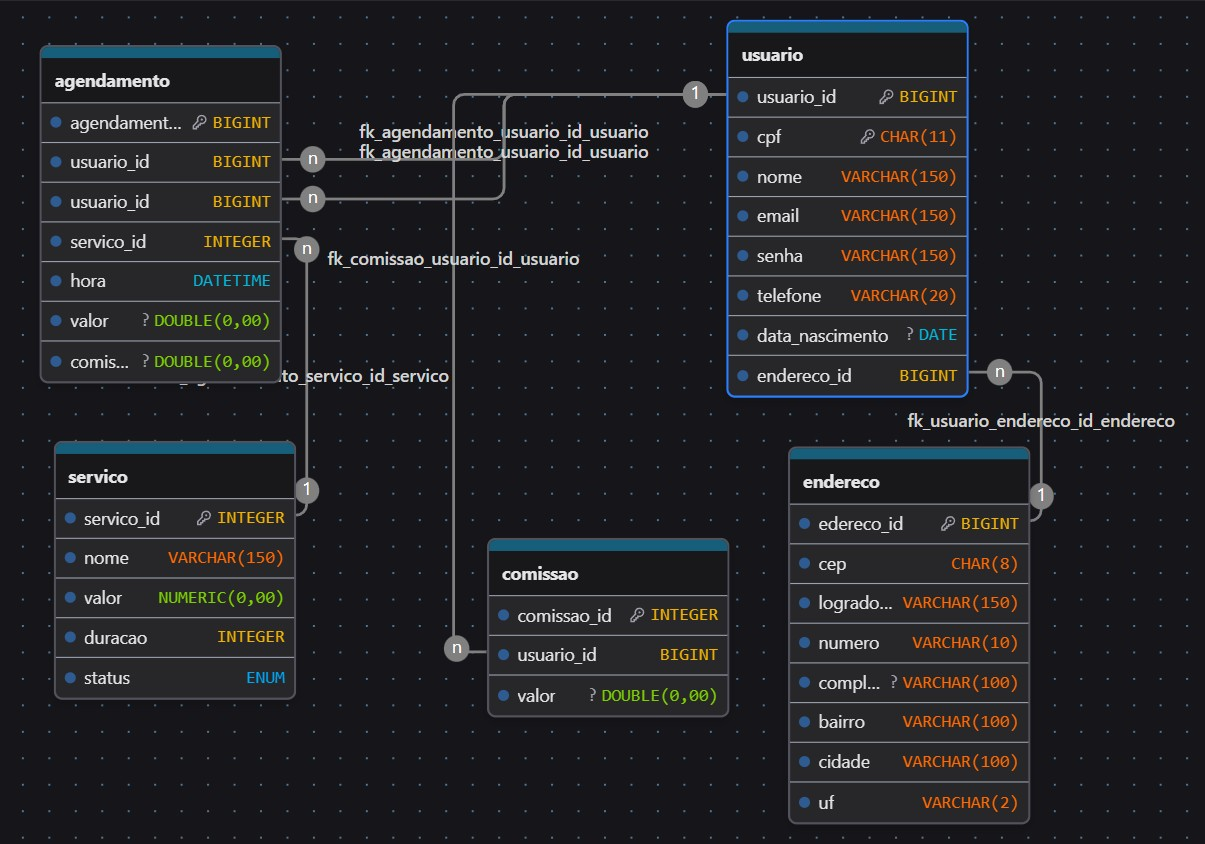
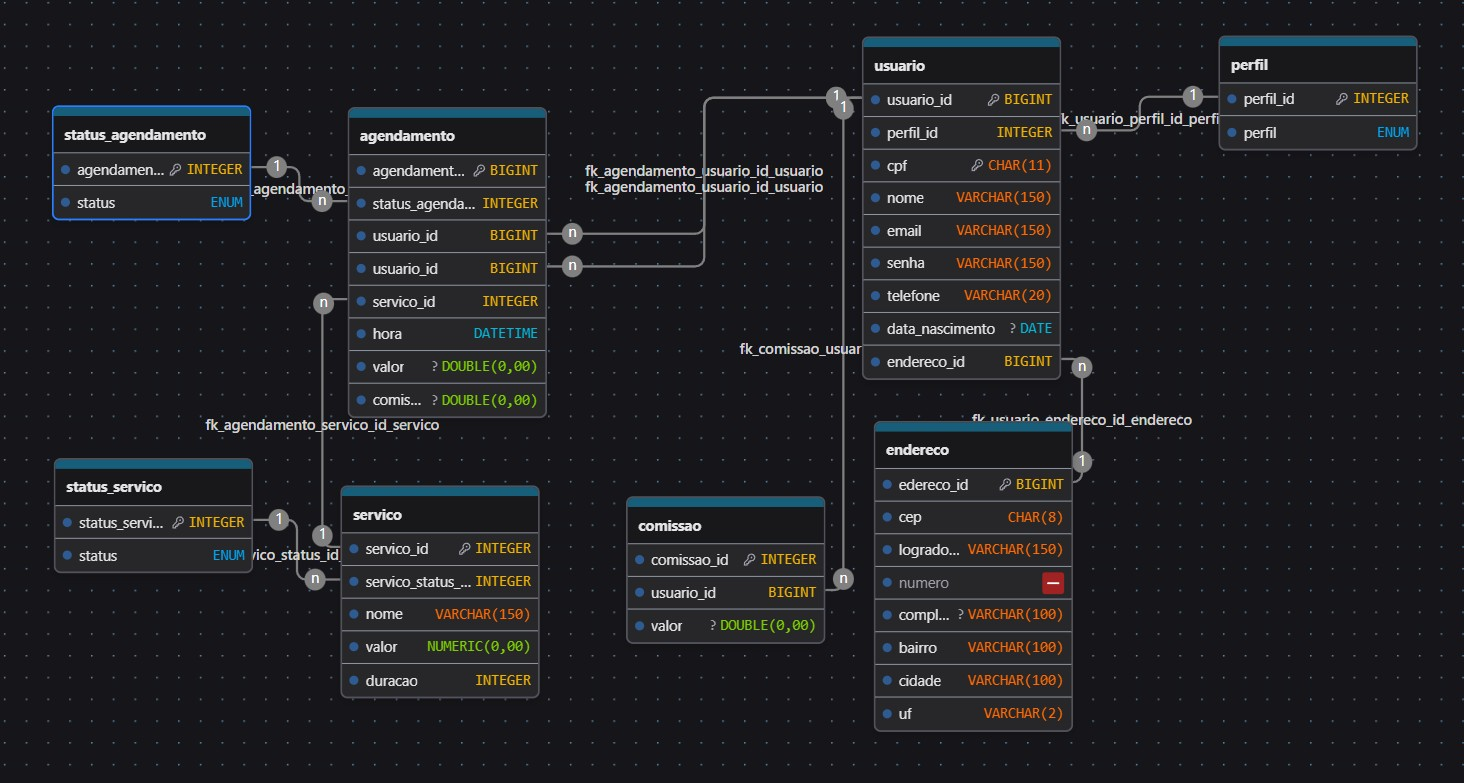
Atualiza o modelo de dados e a descrição das tecnologia do projeto

Changed region(s): [[0.0307, 0.0, 0.9826, 0.9808]]

diff --git a/docs/solution-design.md b/docs/solution-design.md
@@ -8,18 +8,20 @@ O modelo relacional Servify conta com 5 tabelas.
 - A tabela **comissao** permite armazenar o valor de comissão que um colaborador recebe por um serviço prestado
 - A tabela **servico** permite armazenar diferentes serviços que o estabelecimente oferece
 - A tabela **agendamento** permite armazenar um agendamento de um serviço e serve de base para o cálculo do valor faturado pelo estabelecimento e do valor de comissão devida ao colaborador que prestou o serviço
+- A tabela **perfil** permite armazenar os tipos de perfís de acesso disponíveis na aplicação
+- A tabela **status_agendamento** permite armazenar os tipos de *status* que um agendamento pode possuir ao longo do seu ciclo de vida
+- A tabela **status_servico** permite armazenar os tipo de *status* que um serviço pode possuir ao longo do seu ciclo de vida
 
 ![Modelo relacional Servify](images/modeloRelacional.jpg "Modelo Relacional Servify.")
 ---
 
 ### 4.2. Tecnologias
 
-_Descreva qual(is) tecnologias você vai usar para resolver o seu problema, ou seja, implementar a sua solução. Liste todas as tecnologias envolvidas, linguagens a serem utilizadas, serviços Web, frameworks, bibliotecas, IDEs de desenvolvimento, e ferramentas._
-
 | **Dimensão**   | **Tecnologia**    |
 | ---            | ---               |
 | SGBD           | PostgreSQL        |
-| Front end      | React HTML+CSS+JS |
-| Back end       | Java SpringBoot   |
+| IDE            | Visual Studio Code |
+| Front end      | Bibliotecas React e jQuery com as linguagens HTML, CSS, JavaScript e TypeScript |
+| Back end       | Framework SpringBoot com a linguagem Java   |
 | Deploy         | Github Pages      |
 
